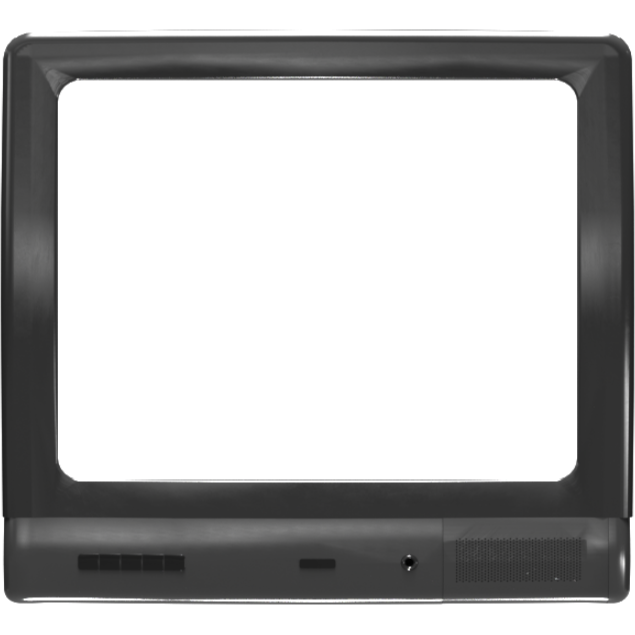
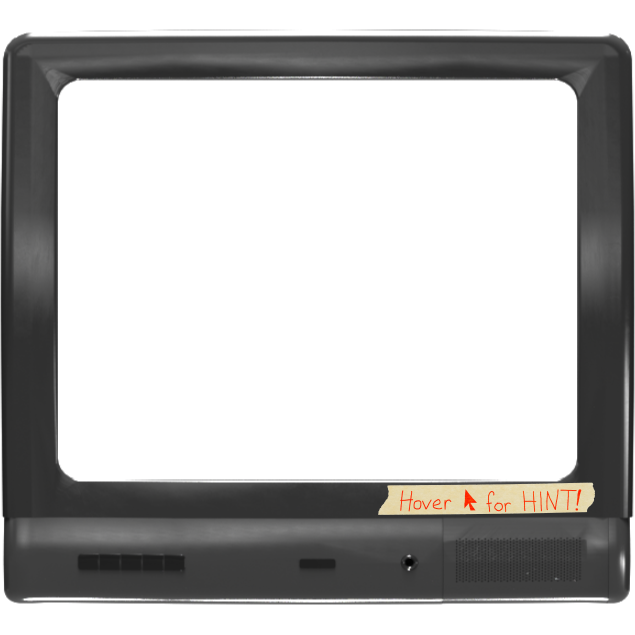
Tv Sticker. next moment button

Changed region(s): [[0.5984, 0.748, 0.9575, 0.8378]]

diff --git a/src/App.jsx b/src/App.jsx
@@ -11,6 +11,7 @@ export default function App() {
   const logoSrc = '/assets/GameImages/AMIM-Header.gif';
   const backgroundSrc = '/assets/GameImages/background2.gif';
   const discordSrc = '/assets/GameImages/discord.png';
+  const buttonSrc = '/assets/GameImages/Next-moment-button.png';
   const [isBothPlayerAnswersCorrect, setIsBothPlayerAnswersCorrect] = useState(null);
   const [GlobalTournamentAnswer, setGlobalTournamentAnswer] = useState(null);
   const [currentIndex, setCurrentIndex] = useState(Math.floor(Math.random() * gameData.length));
@@ -29,7 +30,7 @@ export default function App() {
   
   return (
     <div
-      className="relative h-screen mx-auto"
+      className="relative h-screen mx-auto flex items-center justify-center"
       style={{
         backgroundImage: `url(${backgroundSrc})`,
         backgroundSize: 'cover',
@@ -59,13 +60,13 @@ export default function App() {
           </div>
   
           {/* Main Guessing Field with Discord Icon and New Index Button */}
-          <div className="flex items-center justify-center w-full">
+          <div className="flex flex-row items-center justify-center">
             {/* Discord Logo */}
-            <a href="https://discord.gg/c3taXNgV" className="mr-5">
+            <a href="https://discord.gg/c3taXNgV" className="flex items-center justify-center">
               <img
                 src={discordSrc}
                 alt="Discord Logo"
-                style={{ width: '50px' }}
+                style={{ width: '100px' }}
               />
             </a>
   
@@ -105,20 +106,24 @@ export default function App() {
             </div>
   
             {/* New Index Button */}
-            <button
-              onClick={() => {
-                const newIndex = currentIndex + 1;
-                setCurrentIndex(newIndex >= gameData.length ? 0 : newIndex);
-                resetPlayerGuess();
-                resetTournamentGuess();
-                setIsBothPlayerAnswersCorrect(null);
-                setGlobalTournamentAnswer(null);
-              }}
-              className="bg-blue-500 hover:bg-blue-700 text-white font-bold py-2 px-4 rounded ml-5"
-            >
-              Load New Moment
-            </button>
-          </div>
+              <a
+                onClick={() => {
+                  const newIndex = currentIndex + 1;
+                  setCurrentIndex(newIndex >= gameData.length ? 0 : newIndex);
+                  resetPlayerGuess();
+                  resetTournamentGuess();
+                  setIsBothPlayerAnswersCorrect(null);
+                  setGlobalTournamentAnswer(null);
+                }}
+              >
+                <img
+                  src={buttonSrc}
+                  alt="Load New Moment"
+                  className="cursor-pointer hover:opacity-80 transition duration-300 ease-in-out"
+                  style={{ width: '100px' }}
+                />
+              </a>
+            </div>
         </div>
   
         {/* Congrats Component */}
@@ -136,5 +141,5 @@ export default function App() {
         </div>
       </div>
     </div>
-  );
-}  
+  );}
+
